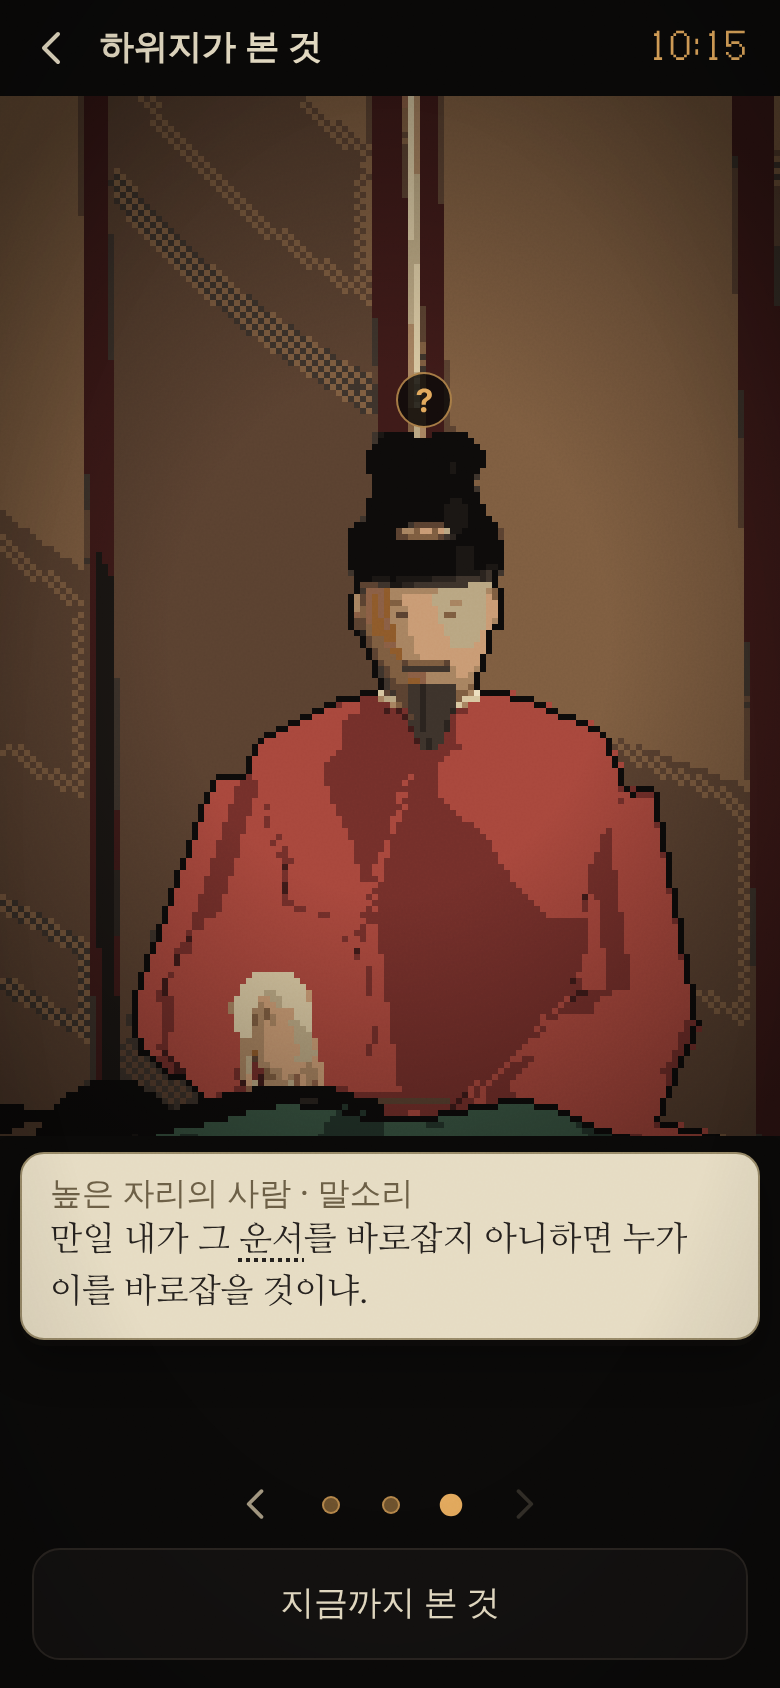
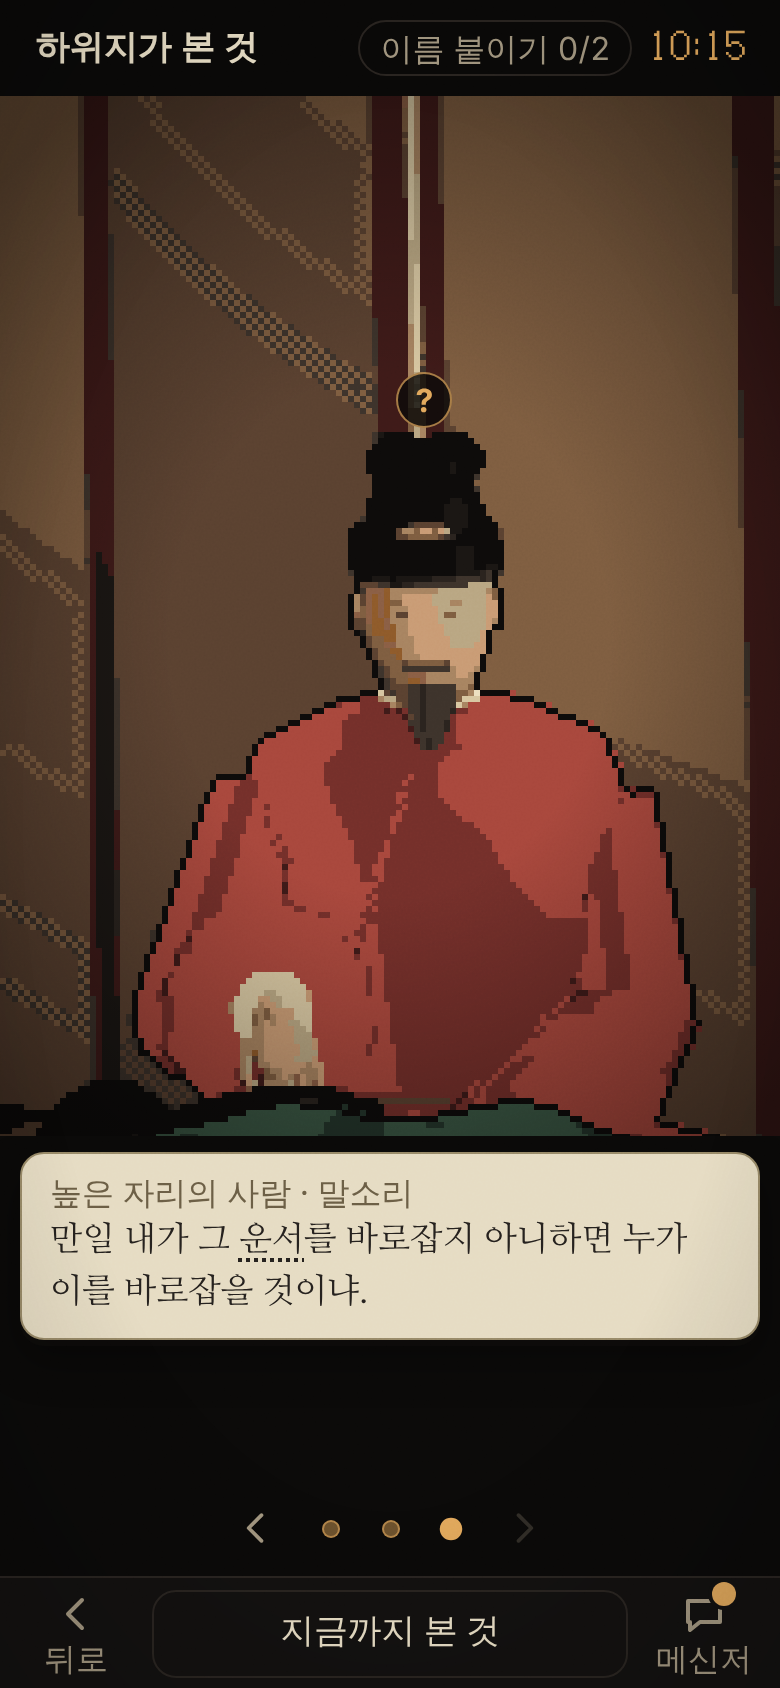
WIP: restore flow, tag completion, bottom nav, 역사 고정 terms (in progress)
Claude-Session: https://claude.ai/code/session_01KFSubRhYMwfv7XXZeecSZ3

diff --git a/src/ui/screens/Rewrite.tsx b/src/ui/screens/Rewrite.tsx
@@ -66,10 +66,10 @@ function LineView({ l, onSlot, onRemove }: { l: RewriteLineView; onSlot: (kind: 
           실록이 적지 않은 일
         </div>
       ) : null}
-      {l.result === 'not_recorded' ? <div className="res">이 줄은 기록이 되지 않았다</div> : null}
+      {l.result === 'not_recorded' ? <div className="res">고정되지 않았다</div> : null}
       {l.result === 'incomplete' ? <div className="res">빈 칸이 있다</div> : null}
       {!restored ? (
-        <button className="x" aria-label="이 줄 빼기" onClick={onRemove}>
+        <button className="x" aria-label="이 문장 빼기" onClick={onRemove}>
           <IClose />
         </button>
       ) : null}
@@ -80,7 +80,7 @@ function LineView({ l, onSlot, onRemove }: { l: RewriteLineView; onSlot: (kind: 
 function PiecePicker({ onClose }: { onClose: () => void }) {
   const rw = useView(selectRewrite);
   return (
-    <Sheet title="줄 더하기" onClose={onClose} testId="piece-sheet" maxH="72%">
+    <Sheet title="고정할 문장 더하기" onClose={onClose} testId="piece-sheet" maxH="72%">
       {rw.pieces.length === 0 ? <div className="placeholder t-m">더할 수 있는 조각이 없다</div> : null}
       {rw.pieces.map((p) => (
         <button
@@ -181,14 +181,14 @@ export function Rewrite() {
         </div>
         {rw.complete ? (
           <span className="t-m amber" data-testid="rewrite-restored">
-            복원됨
+            고정됨
           </span>
         ) : null}
       </div>
       <div className={`sheetpaper hanji${rw.complete ? ' done' : ''}`} data-testid="paper">
         {rw.lines.length === 0 ? (
           <p className="read keep" style={{ margin: '28px 4px', fontSize: 17, lineHeight: '30px', color: '#6b5e45' }}>
-            {rw.pieces.length ? '본 것으로만 쓴다. 줄을 더해, 칸을 내가 확인한 값으로 채운다.' : '본 것으로만 쓴다.'}
+            {rw.pieces.length ? '본 것으로만 고정한다. 고정할 문장을 더해, 칸을 내가 확인한 값으로 채운다.' : '본 것으로만 고정한다.'}
           </p>
         ) : null}
         {rw.lines.map((l) => (
@@ -198,7 +198,7 @@ export function Rewrite() {
       {!rw.complete && rw.pieces.length ? (
         <div className="foot slim">
           <button className="btn secondary" onClick={() => setPicker(true)} data-testid="btn-add-line">
-            줄 더하기
+            고정할 문장 더하기
           </button>
         </div>
       ) : null}
@@ -211,7 +211,7 @@ export function Rewrite() {
             </button>
           ) : (
             <HoldButton onDone={submit} mode={holdMode} testId="btn-submit" disabled={rw.lines.length === 0} className="btn primary navprimary">
-              ● 기록을 남긴다 <small className="hint">{holdMode === 'hold' ? '(길게)' : '(두 번)'}</small>
+              {holdMode === 'hold' ? '길게 눌러 역사 고정' : '두 번 눌러 역사 고정'}
             </HoldButton>
           )
         }

diff --git a/src/data/v5/messenger.ts b/src/data/v5/messenger.ts
@@ -51,7 +51,7 @@ export const BURSTS: Burst[] = [
   { id: 'ev.linger_cut.E1', spontaneous: true, steps: [han('남의 눈으로 보는 거 처음엔 좀 어지럽지.')] },
   { id: 'ev.tag_wrong', spontaneous: true, steps: [han('아닌가 보네.'), han('근거를 바꿔 봐.')] },
   { id: 'ev.tag_unmerged', steps: [han('그 말이 누구 얘기였는지부터 봐.'), han('방에서 같은 시각을 봐.')] },
-  { id: 'ev.write_miss', steps: [han('안 돌아왔네.'), han('칸 하나가 어긋난 거야.')] },
+  { id: 'ev.write_miss', steps: [han('고정이 안 됐네.'), han('칸 하나가 어긋난 거야.')] },
   { id: 'ev.tag_anon', steps: [han('그 사람 카드는 없을걸.'), han('모든 사람이 기록에 남진 않아.')] },
   {
     id: 'ev.eye_open.E2',
@@ -173,7 +173,7 @@ export const BURSTS: Burst[] = [
   {
     id: 'ev.write_open',
     steps: [
-      han('이제 써 봐.'),
+      han('이제 고정해 봐.'),
       han('본 것만.'),
       {
         kind: 'choice',
@@ -188,7 +188,7 @@ export const BURSTS: Burst[] = [
   },
   { id: 'ev.x2', steps: [han('종이 수가 또 다르네.'), han('셀 수 있었던 눈이 누군지 봐.')] },
   { id: 'ev.witness_line', steps: [han('그 줄은 남아.'), han('근데 기록은 안 돼.'), han('본 사람이 있어도, 적힌 데가 없으면.', heavy)] },
-  { id: 'ev.write_partial', steps: [han('몇 줄은 돌아왔네.'), han('안 돌아온 줄은 칸 하나가 어긋난 거야.')] },
+  { id: 'ev.write_partial', steps: [han('몇 문장은 고정됐네.'), han('고정 안 된 문장은 칸 하나가 어긋난 거야.')] },
   {
     id: 'ev.restore',
     postRestore: true,
@@ -333,7 +333,7 @@ export const LADDERS: HintLadder[] = [
     silenceS: 20,
     activeWhen: { rewriteAvailable: true, rewriteOpen: false, restored: false },
     doneWhen: { rewriteOpen: true },
-    steps: [{ id: 'h_write_open_1', text: '이제 써 볼 수 있겠다. 홈에.', afterS: 15 }],
+    steps: [{ id: 'h_write_open_1', text: '이제 고정할 수 있겠다. 홈에.', afterS: 15 }],
   },
   {
     id: 'h_write',
@@ -342,7 +342,7 @@ export const LADDERS: HintLadder[] = [
     doneWhen: { allRestored: true },
     steps: [
       { id: 'h_write_1', text: '본 것만 써. 실록도 본 걸 적은 거니까.', afterS: 120, fails: 2 },
-      { id: 'h_write_2', text: '안 돌아온 줄은 칸 하나가 어긋난 거야.', afterS: 60, fails: 3 },
+      { id: 'h_write_2', text: '고정 안 된 문장은 칸 하나가 어긋난 거야.', afterS: 60, fails: 3 },
       { id: 'h_write_3', text: "줄마다 '누가'랑 '몇'부터 다시 봐.", afterS: 60, fails: 4 },
     ],
   },

diff --git a/src/data/v5/ep0/messenger.ts b/src/data/v5/ep0/messenger.ts
@@ -80,24 +80,25 @@ export const BURSTS0: Burst[] = [
   { id: 'ev0.decoy.choi', steps: [han('그 사람은 두루마리 읽던 쪽이잖아.'), han('높은 자리 사람은 자기를 뭐라고 불렀지?')] },
   { id: 'ev0.decoy.king', steps: [han('그 카드엔 높은 자리 얘기가 없네.'), han('그 사람들은 꾸중 듣던 쪽이잖아.')] },
   { id: 'ev.card_link', steps: [han('카드 하나 더 붙었네.'), han('줄 안 이름도 눌러 볼 수 있어.')] },
-  { id: 'ev0.king_named', steps: [han('붙었다.'), han('이제 다시 써 봐.')] },
+  { id: 'ev0.king_named', steps: [han('붙었다.'), han('이제 고정해 봐.')] },
   {
     id: 'ev.write_open',
     steps: [
-      han('본 것만 써.'),
-      han('맞는 줄은 실록 문장으로 돌아와.'),
+      han('본 것만으로 고정해.'),
+      han('고정하면 세상이 그 기록대로 굳어.'),
+      han('실록과 맞는 문장만 고정돼.'),
       {
         kind: 'choice',
         id: 'c0_write',
         allowNoReply: true,
         options: [
-          { id: 'then', text: '돌아오면요?', then: [han('그 문장이 다시 기록이 돼.'), han('기록이 돌아오면 사람들 기억도 돌아와.')] },
+          { id: 'then', text: '고정되면요?', then: [han('그 문장이 다시 기록이 돼.'), han('기록이 돌아오면 사람들 기억도 돌아와.')] },
           { id: 'ok', text: '네.', then: [] },
         ],
       },
     ],
   },
-  { id: 'ev.write_miss', steps: [han('안 돌아왔네.'), han('칸에 넣은 이름만 다시 봐.')] },
+  { id: 'ev.write_miss', steps: [han('고정이 안 됐네.'), han('칸에 넣은 이름만 다시 봐.')] },
   {
     id: 'ev.restore',
     postRestore: true,
@@ -171,7 +172,7 @@ export const LADDERS0: HintLadder[] = [
     silenceS: 15,
     activeWhen: { rewriteAvailable: true, rewriteOpen: false, restored: false },
     doneWhen: { rewriteOpen: true },
-    steps: [{ id: 'h0_write_open_1', text: '이제 그 칸 채울 수 있겠다. 홈에.', afterS: 10 }],
+    steps: [{ id: 'h0_write_open_1', text: '이제 고정할 수 있겠다. 홈에.', afterS: 10 }],
   },
   {
     id: 'h0_write',

diff --git a/tests/unit/store-playthrough.test.ts b/tests/unit/store-playthrough.test.ts
@@ -218,7 +218,7 @@ describe('store — Ep1 correct path end to end', () => {
     // 현실 재기록
     expect(h.st().restore()).toBe('restored');
     const home = selectHome(EP1, h.st());
-    expect(home.card).toMatchObject({ date: '연산군 4년 7월 11일', place: '실록청(춘추관 안)', status: '복원됨', placeNote: '장소와 전달 방식은 재구성 — 그날 실록에는 장소가 없다' });
+    expect(home.card).toMatchObject({ date: '연산군 4년 7월 11일', place: '실록청(춘추관 안)', status: '고정됨', placeNote: '장소와 전달 방식은 재구성 — 그날 실록에는 장소가 없다' });
     expect(home.buttons).toEqual(['memories', 'restored']);
     const kimR = selectCard(EP1, h.st(), 'kim_ilson')!;
     expect(kimR.altered[0]).toMatchObject({ state: 'restored', provenance: 'verified' });
@@ -363,7 +363,7 @@ describe('store — mistakes are free and informative', () => {
     const G = (h.st().placePiece('w_corner') as { lineId: string }).lineId;
     const sub = h.st().submitRewrite();
     expect('results' in sub && sub.results).toEqual({ [L2]: 'not_recorded', [G]: 'witness' });
-    expect(selectRewrite(EP1, h.st()).lines.find((l) => l.id === L2)!.resultText).toBe('이 줄은 기록이 되지 않았다');
+    expect(selectRewrite(EP1, h.st()).lines.find((l) => l.id === L2)!.resultText).toBe('고정되지 않았다');
     expect(h.st().messenger.fired).toContain('ev.witness_line');
     expect(h.st().restore()).toBe('not_ready');
     // 한 줄만 고쳐 다시 — 공짜

diff --git a/src/store/selectors.ts b/src/store/selectors.ts
@@ -78,7 +78,7 @@ export function selectHome(ep: Episode, s: PersistedState) {
     nextEpisode: s.epilogueDone && ep.next ? ep.next : null,
     /** 「이름 붙이기 n/m」 */
     tags: selectTagProgress(ep, s),
-    /** 다음 할 일 = 기록 다시 쓰기(주요 버튼이 그쪽으로 바뀐다) */
+    /** 다음 할 일 = 역사 고정(주요 버튼이 그쪽으로 바뀐다) */
     rewriteReady: rewriteAvailable(ep, s) && !s.restored,
   };
 }
@@ -201,7 +201,7 @@ export function selectViewer(ep: Episode, s: PersistedState) {
     canOpenRoom: roomUnlocked(ep, s),
     /** 「이름 붙이기 n/m」 */
     tags: selectTagProgress(ep, s),
-    /** 다음 할 일 = 기록 다시 쓰기(아래 주요 버튼이 「기록 다시 쓰기 ›」 로) */
+    /** 다음 할 일 = 역사 고정(아래 주요 버튼이 「역사 고정 ›」 로) */
     rewriteReady: rewriteAvailable(ep, s) && !s.restored,
   };
 }
@@ -554,7 +554,7 @@ export interface RewriteLineView {
 const RESULT_TEXT: Record<LineResult, string> = {
   restored: '',
   witness: '실록이 적지 않은 일 — 내가 본 것에만 남는다',
-  not_recorded: '이 줄은 기록이 되지 않았다',
+  not_recorded: '고정되지 않았다',
   incomplete: '빈 칸이 있다',
 };
 

diff --git a/src/ui/screens/Restore.tsx b/src/ui/screens/Restore.tsx
@@ -1,7 +1,7 @@
 /**
  * 복원 뒤 — 세 박자. 복원의 순간(빈칸이 채워지고 출처가 붙음)은 기록 다시 쓰기 화면 안에서 이미 지나갔다.
  *  ① 홈 카드가 뒤집혀 「복원됨」(일시·장소, 돌아온 줄 짧게, 이웃 기록 한 줄, 전문은 「전문 펼치기」)
- *  (Ep1 만) 바뀐 것 — 인물 카드에서 다시 쓰인 줄 · 그날의 방 「?」의 짝 이름 · 그대로 남은 로그 한 줄
+ *  (Ep1 만) 바뀐 것 — 인물 카드에서 바뀐 줄 · 그날의 방 「?」의 짝 이름 · 그대로 남은 로그 한 줄
  *  ② 짧은 독백 → ③ 다리(Ep0: 대화창 23:04) / 예고(Ep1). UI_STYLE_GUIDE §2.10
  */
 import { useEffect, useRef, useState } from 'react';
@@ -91,7 +91,7 @@ export function Restore() {
         {step === 'cards' ? (
           <div data-testid="restore-cards">
             <div className="t-m" style={{ margin: '4px 0 10px' }}>
-              인물 카드에서 다시 쓰인 줄
+              인물 카드에서 바뀐 줄
             </div>
             {r.cards.flatMap((c) =>
               c.changes.map((ch, i) => (

diff --git a/src/ui/screens/Home.tsx b/src/ui/screens/Home.tsx
@@ -41,7 +41,7 @@ export function enterMemory(eyeId: string) {
 export function Home() {
   const home = useView(selectHome);
   const { push } = useUi.getState();
-  const restored = home.card.status === '복원됨';
+  const restored = home.buttons.includes('restored');
   const unseen = home.unread > 0;
 
   const memories = () => {
@@ -127,7 +127,7 @@ export function Home() {
       <div className="home-body">
         {home.rewriteReady ? (
           <button className="btn primary breath" data-testid="btn-rewrite" onClick={() => push('rewrite')}>
-            기록 다시 쓰기 ›
+            역사 고정 ›
           </button>
         ) : null}
         {home.buttons.includes('memories') && !home.nextEpisode ? (
@@ -144,7 +144,7 @@ export function Home() {
         ) : null}
         {home.buttons.includes('restored') && !home.nextEpisode ? (
           <button className="btn secondary" data-testid="btn-restored" onClick={() => push('restore')}>
-            복원된 기록
+            고정된 기록
           </button>
         ) : null}
         {home.nextEpisode ? (

diff --git a/src/data/v5/records.ts b/src/data/v5/records.ts
@@ -152,7 +152,7 @@ export const DOCS: LogDocument[] = [
     officer: '대조관 07',
     fields: [
       { label: '관측 가능', value: '2' },
-      { label: '기록 다시 쓰기', value: '미완(근거끼리 모순)' },
+      { label: '역사 고정', value: '미완(근거끼리 모순)' },
       { label: '첨부 컷', value: '보존 기간 만료로 폐기' },
     ],
     note: '「모두」인가, 「여섯 조목」인가. 들은 자리가 다르다. 다음 관측 때 방을 다시 그려 볼 것.',
@@ -187,7 +187,7 @@ export const HOME: HomeCard = {
   },
   task: '이 날의 기록이 비어 있다. 그날 그 자리에 있던 사람들의 눈으로 본다.',
   detection: '관측기가 찾음 · #C-2217 · 일시 #### · 이 지점을 가리키는 기록 3건',
-  status: { before: '빈자리', after: '복원됨' },
+  status: { before: '빈자리', after: '고정됨' },
 };
 
 export const EPILOGUE = {

diff --git a/src/ui/parts/RestoredCard.tsx b/src/ui/parts/RestoredCard.tsx
@@ -72,7 +72,7 @@ function KeyLine() {
   if (!first) return null;
   return (
     <div className="home-record" data-testid="restored-keyline">
-      <div className="t-m hr-title">돌아온 줄</div>
+      <div className="t-m hr-title">고정된 문장</div>
       <p className="read keep hr-text clamp2">
         「
         {first.render.parts.map((p, i) =>
@@ -88,7 +88,7 @@ function KeyLine() {
         )}
         」
       </p>
-      {lines.length > 1 ? <div className="t-m hr-src">다시 쓴 줄 {lines.length}줄이 모두 실록으로 돌아왔다</div> : null}
+      {lines.length > 1 ? <div className="t-m hr-src">고정한 문장 {lines.length}개가 모두 실록으로 돌아왔다</div> : null}
     </div>
   );
 }

diff --git a/tests/unit/store-ep0.test.ts b/tests/unit/store-ep0.test.ts
@@ -162,7 +162,7 @@ describe('store — Ep0 correct path', () => {
     // 복원: 홈 카드, 이웃 기록(是月), 동료의 말
     expect(selectRecord(EP0, h.st(), 'rec0_eonmun28')!.provenance).toBe('fictional');
     expect(h.st().restore()).toBe('restored');
-    expect(selectHome(EP0, h.st()).card).toMatchObject({ date: '세종 26년 2월 20일', status: '복원됨' });
+    expect(selectHome(EP0, h.st()).card).toMatchObject({ date: '세종 26년 2월 20일', status: '고정됨' });
     const r = selectRestoration(EP0, h.st())!;
     expect(r.steps).toEqual(['home', 'monologue', 'bridge']);
     expect(r.article.parts.filter((p) => p.by === 'me').map((p) => p.sentenceId)).toEqual(['R0']);

diff --git a/tests/e2e/v5.spec.ts b/tests/e2e/v5.spec.ts
@@ -320,7 +320,7 @@ test.describe('v5 전체 플레이', () => {
     // 마지막 이름: 「모두 밝혀졌다」 + 아래 가운데 칸이 「기록 다시 쓰기 ›」 로
     await expect(tid(page, 'toast')).toHaveText('모두 밝혀졌다', { timeout: 6000 });
     await expect(tid(page, 'tag-progress')).toHaveText('이름 붙이기 2/2');
-    await expect(tid(page, 'btn-to-rewrite')).toHaveText('기록 다시 쓰기 ›');
+    await expect(tid(page, 'btn-to-rewrite')).toHaveText('역사 고정 ›');
     await expect(tid(page, 'btn-log')).toBeVisible(); // 지금까지 본 것은 작은 아이콘으로
     await shot0(page, 'tags-all-done');
 

diff --git a/src/data/v5/ep0/content.ts b/src/data/v5/ep0/content.ts
@@ -449,7 +449,7 @@ export const HOME0: HomeCard = {
   place: { before: '미확인', after: '기록 없음(그림 속 방은 재구성)', source: SRC0.art0220, note: '그날 실록에는 장소가 없다' },
   task: '이 날의 기록이 구멍투성이다. 그 자리에 있던 사람의 눈으로 본다.',
   detection: '관측기가 찾음 · #C-2209 · 일시 #### · 문장 손상 2건',
-  status: { before: '부분 손상', after: '복원됨' },
+  status: { before: '부분 손상', after: '고정됨' },
 };
 
 export const EPILOGUE0 = {
